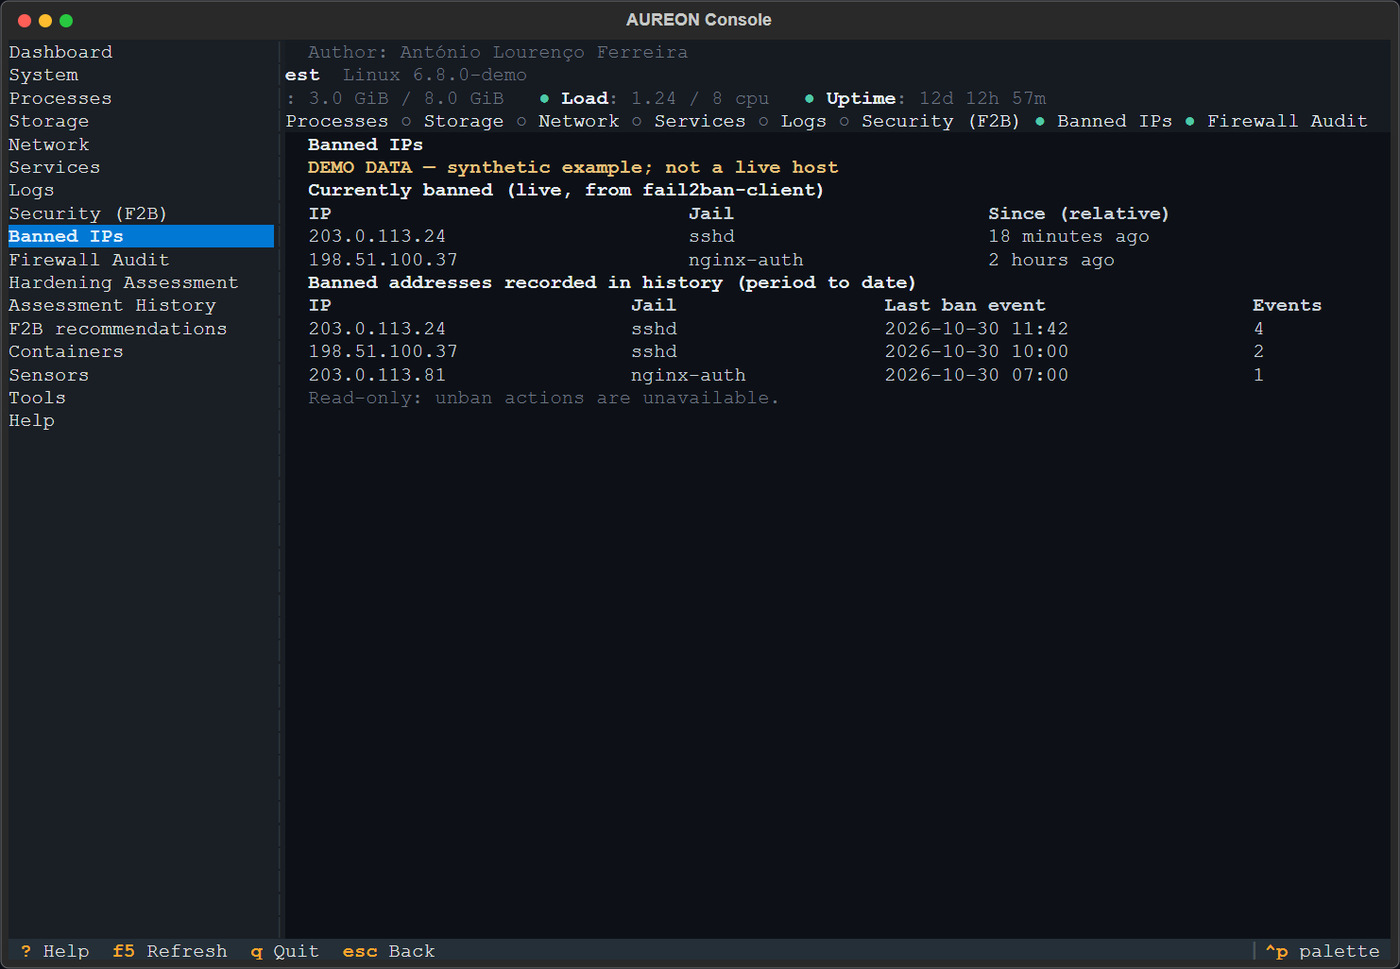
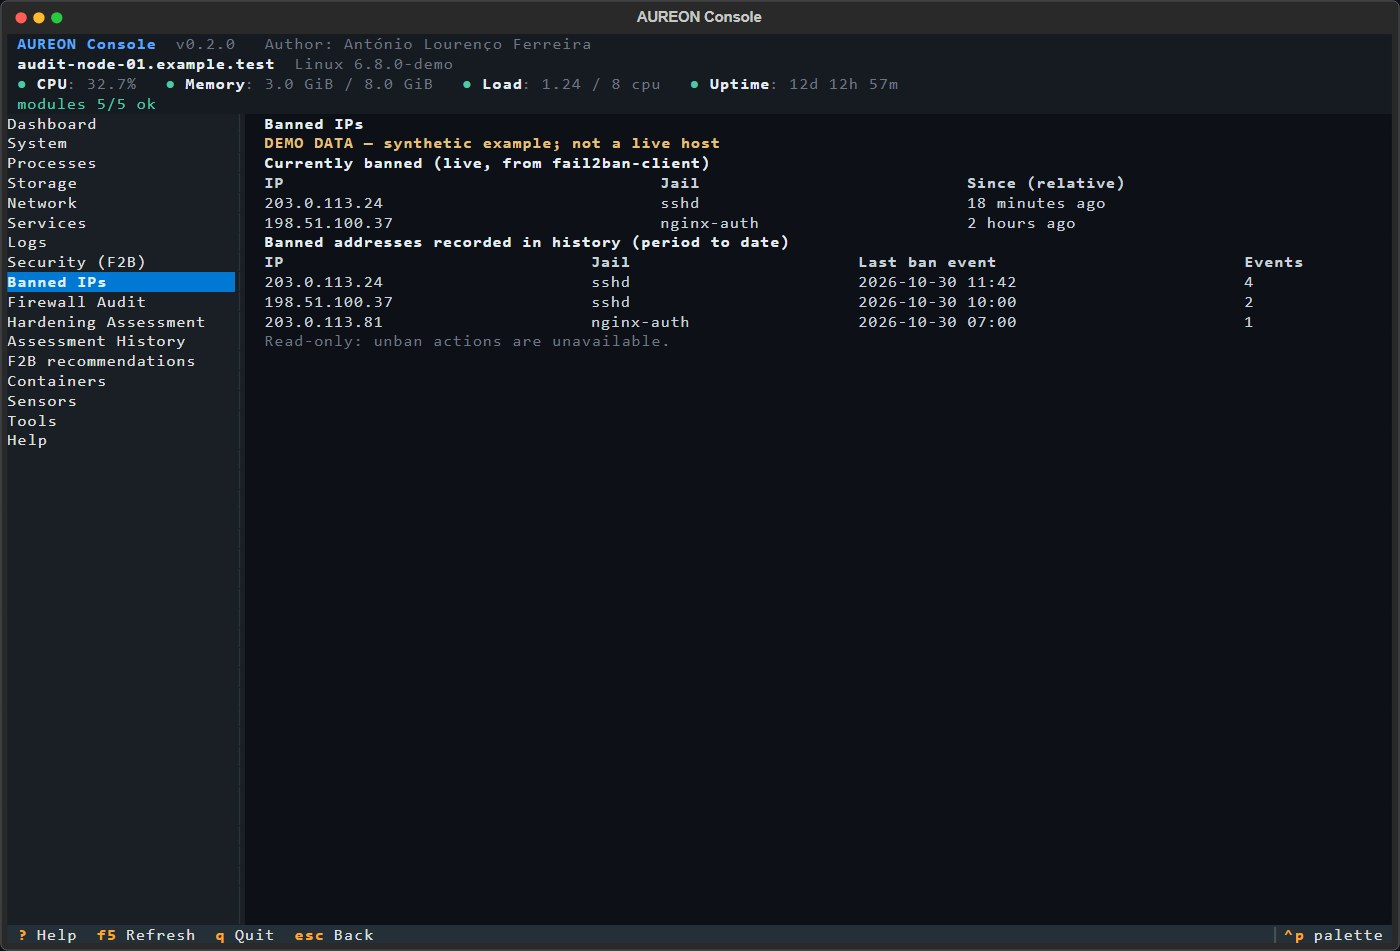
Fix TUI header overlap and prepare the public presentation.
The docked sidebar painted over the fixed-height header, and the header tried
to print every module label on one line, hiding host and health information.
Navigation and content now share a row below a compact header, header updates
happen only on the UI thread, and the TUI tests await their collection workers
instead of racing them. Documentation, installer defaults and screenshots are
aligned with an unprivileged public release.

🤖 Generated with Codebuff

Changed region(s): [[0.0, 0.0, 0.9829, 0.4879], [0.0, 0.9453, 1.0, 1.0], [0.8907, 0.2744, 0.9521, 0.3659]]

diff --git a/src/aureon/tui/app.py b/src/aureon/tui/app.py
@@ -75,29 +75,32 @@ class Header3(Static):
             health.append("   ")
         if not self.indicators:
             health.append("collecting...", style="#6e7681")
-        modules = Text()
-        for key, label in navigation(self.config.language):
-            state = self.module_states.get(key, "")
-            symbol = {
-                "ok": "\u25cf",
-                "warn": "\u25b2",
-                "error": "\u2716",
-                "unavailable": "\u2013",
-                "denied": "\u25b2",
-                "timeout": "\u25b2",
-                "error:": "\u2716",
-            }.get(state, "\u25cb")
-            style = {
-                "ok": "#4ec9a8",
-                "warn": "#e5c07b",
-                "error": "#e06c75",
-                "unavailable": "#6e7681",
-                "denied": "#e5c07b",
-                "timeout": "#e5c07b",
-            }.get(state, "#6e7681")
-            modules.append(f"{symbol} ", style=style)
-            modules.append(f"{label} ")
-        return Group(title, host, health, modules)
+        return Group(title, host, health, module_summary(
+            navigation(self.config.language), self.module_states
+        ))
+
+
+def module_summary(labels, states: Dict[str, str]) -> Text:
+    """One compact line: how many modules are healthy, and which need attention.
+
+    The header has a fixed four-line height, so it must not try to print every
+    module label: a long list used to wrap and push the host and health lines
+    out of view in narrow terminals and in documentation screenshots.
+    """
+    text = Text()
+    reported = [(key, label) for key, label in labels if key in states]
+    if not reported:
+        text.append("collecting module state...", style="#6e7681")
+        return text
+    healthy = sum(1 for key, _label in reported if states.get(key) == "ok")
+    text.append(f"modules {healthy}/{len(reported)} ok", style="#4ec9a8" if healthy == len(reported) else "#6e7681")
+    attention = [label for key, label in reported if states.get(key) != "ok"]
+    if attention:
+        shown = attention[:4]
+        suffix = "\u2026" if len(attention) > len(shown) else ""
+        text.append("   needs attention: ", style="#e5c07b")
+        text.append(", ".join(shown) + suffix, style="#e5c07b")
+    return text
 
 
 def indicators_line(items: List[Indicator]):
@@ -148,11 +151,14 @@ class AureonApp(App):
     def compose(self) -> ComposeResult:
         self.header = Header3(self.config, id="aureon-header")
         yield self.header
-        nav_items = [ListItem(Label(label), id=f"nav-{key}") for key, label in navigation(self.config.language)]
-        yield ListView(*nav_items, id="aureon-nav")
-        with Vertical(id="aureon-main"):
-            yield Static("", id="aureon-title")
-            yield VerticalScroll(Static("", id="aureon-content"), id="aureon-body")
+        # Header, navigation and content are siblings in flow order: docking the
+        # sidebar across the whole screen used to paint over the header text.
+        with Horizontal(id="aureon-layout"):
+            nav_items = [ListItem(Label(label), id=f"nav-{key}") for key, label in navigation(self.config.language)]
+            yield ListView(*nav_items, id="aureon-nav")
+            with Vertical(id="aureon-main"):
+                yield Static("", id="aureon-title")
+                yield VerticalScroll(Static("", id="aureon-content"), id="aureon-body")
         yield Static("starting...", id="aureon-status")
         yield Footer()
 
@@ -188,8 +194,6 @@ class AureonApp(App):
 
             result = SystemCollector(self.ctx).collect()
             states["system"] = result.availability
-            if result.available:
-                self.header.set_data(system_indicators(result.value), {**states, "dashboard": result.availability})
         except Exception:  # noqa: BLE001
             states["system"] = "error"
         for key in ("storage", "network", "services", "docker", "sensors"):

diff --git a/tests/test_tui.py b/tests/test_tui.py
@@ -32,7 +32,10 @@ async def test_every_navigation_panel_renders(config):
         await pilot.pause()
         for key, _label in NAV:
             app.current = key
-            app.run_worker(app._collect_and_render(), exclusive=True)
+            # Await the worker: firing one per panel and only pausing races the
+            # collection threads and can starve the message pump on slow hosts.
+            worker = app.run_worker(app._collect_and_render(), exclusive=True)
+            await worker.wait()
             await pilot.pause()
             assert app.query_one("#aureon-body").children, f"panel {key} produced no content"
 
@@ -64,7 +67,8 @@ async def test_refresh_only_ever_issues_read_only_commands(config, monkeypatch):
         await pilot.pause()
         for panel in ("dashboard", "storage", "network", "services", "logs", "security", "banned", "firewall", "assessment", "assessment-history", "wizard", "containers", "sensors", "tools"):
             app.current = panel
-            app.run_worker(app._collect_and_render(), exclusive=True)
+            worker = app.run_worker(app._collect_and_render(), exclusive=True)
+            await worker.wait()
             await pilot.pause()
 
     forbidden = {"start", "stop", "restart", "reload", "set", "unban", "ban", "kill", "pkill", "rm", "mv", "install"}
@@ -80,7 +84,8 @@ async def test_dashboard_survives_fail2ban_absence(config):
     async with app.run_test() as pilot:
         await pilot.pause()
         app.current = "security"
-        app.run_worker(app._collect_and_render(), exclusive=True)
+        worker = app.run_worker(app._collect_and_render(), exclusive=True)
+        await worker.wait()
         await pilot.pause()
         status = app.security.status
         assert status.installed in (True, False)
@@ -90,6 +95,25 @@ async def test_dashboard_survives_fail2ban_absence(config):
 # CI (not the developer's machine) caught widgets being composed into rich
 # renderables. These tests render every panel with *degraded* data so that the
 # empty-state paths are exercised too.
+def test_header_module_summary_stays_on_one_short_line():
+    """The fixed-height header must never wrap its module status line."""
+    from aureon.i18n import navigation
+    from aureon.tui.app import module_summary
+
+    labels = navigation("en")
+    states = {key: "ok" for key, _label in labels}
+    healthy = module_summary(labels, states).plain
+    assert healthy.startswith(f"modules {len(labels)}/{len(labels)} ok")
+    assert len(healthy) < 80
+
+    states[labels[0][0]] = "error"
+    degraded = module_summary(labels, states).plain
+    assert "needs attention" in degraded
+    assert labels[0][1] in degraded
+    assert len(degraded) < 120
+    assert "collecting" in module_summary(labels, {}).plain
+
+
 def test_empty_state_returns_a_renderable_not_a_widget():
     from rich.text import Text
 

diff --git a/scripts/capture_screenshots.py b/scripts/capture_screenshots.py
@@ -180,7 +180,7 @@ async def capture(output: Path) -> None:
         with patch("aureon.tui.app.socket.gethostname", return_value="audit-node-01.example.test"), \
              patch("aureon.tui.app.platform.system", return_value="Linux"), \
              patch("aureon.tui.app.platform.release", return_value="6.8.0-demo"):
-            async with app.run_test(size=(120, 40)) as pilot:
+            async with app.run_test(size=(140, 46)) as pilot:
                 await pilot.pause()
                 nav = app.query_one("#aureon-nav", ListView)
                 for panel in PANELS:

diff --git a/src/aureon/tui/widgets.py b/src/aureon/tui/widgets.py
@@ -35,11 +35,18 @@ Screen {
     background: #161b22;
     color: #e6edf3;
     padding: 0 1;
+    /* Keep identity, host and health readable at any width. */
+    text-align: left;
+    content-align: left top;
+}
+
+#aureon-layout {
+    height: 1fr;
 }
 
 #aureon-nav {
-    dock: left;
     width: 24;
+    height: 1fr;
     background: #10151c;
     border-right: solid #30363d;
 }

diff --git a/README.md b/README.md
@@ -55,24 +55,33 @@ distribution and installation. See [the detailed compatibility notes](docs/COMPA
 - Runtime dependencies: `textual`, `rich` (both MIT). No database server, no web
   server, no network port.
 
-## Install
+## Quick start
+
+Linux with Python 3.9+ is the only requirement. No root, no daemon, no open
+port, no database server.
 
 ```bash
-git clone <repository-url> aureon-console
+git clone https://github.com/antonioferreira2/aureon-console.git
 cd aureon-console
-
-./install.sh                 # per-user install into ~/.local
-sudo ./install.sh            # system-wide (root-owned venv, /var/lib/aureon)
+./install.sh
 
 export PATH="$HOME/.local/bin:$PATH"
-aureon
+aureon doctor    # check Python, collectors and Fail2ban availability
+aureon           # open the console
 ```
 
-Recommended for the security module:
+`install.sh` creates a private virtualenv in `~/.local/share/aureon/venv`,
+links `~/.local/bin/aureon` and installs no system packages. A system-wide
+install is optional:
 
 ```bash
-sudo aureon
+sudo ./install.sh            # root-owned venv under /usr/local, state in /var/lib/aureon
 ```
+
+Run the console as your normal user. `sudo aureon` is only needed for the live
+Fail2ban ban list, which reads the Fail2ban socket; everything else reports
+what it can read and labels unreadable sources as unavailable instead of
+guessing.
 
 Uninstall (the history database is **kept** unless you ask for it):
 
@@ -190,7 +199,6 @@ methodology: [`docs/DATA-ACCURACY.md`](docs/DATA-ACCURACY.md).
 | [HARDENING.zh_CN.md](docs/HARDENING.zh_CN.md) | 加固评估（简体中文） |
 | [HARDENING.ru.md](docs/HARDENING.ru.md) | Оценка защищённости (русский) |
 | [TROUBLESHOOTING.md](docs/TROUBLESHOOTING.md) | Common failures and fixes |
-| [VIDEO-REFERENCE.md](docs/VIDEO-REFERENCE.md) | Analysis of the reference video (not accessible) |
 | [RELEASE-CHECKLIST.md](docs/RELEASE-CHECKLIST.md) | What must be true before a release |
 | [CHANGELOG.md](CHANGELOG.md) | Release history |
 
@@ -200,7 +208,14 @@ Issues, bug reports and pull requests are welcome - read
 [CONTRIBUTING.md](CONTRIBUTING.md) and [CODE_OF_CONDUCT.md](CODE_OF_CONDUCT.md)
 first. Security issues: see [SECURITY.md](SECURITY.md).
 
-## Status
+## Status and support
 
-Pre-release (`0.2.0`). The repository remains **private**. No public
-release, announcement or mirror has been made.
+`0.2.0` is the current release and this repository is public. Tested and
+expected platforms are listed above and detailed in
+[COMPATIBILITY.md](docs/COMPATIBILITY.md); security reports follow
+[SECURITY.md](SECURITY.md).
+
+AUREON is a read-only visibility tool: it helps you see the state of a Linux
+server, but it is not a certification, a SIEM, an IDS or a substitute for a
+full security audit. Where evidence is missing it says so instead of assuming
+the host is safe.

diff --git a/docs/INSTALLATION.md b/docs/INSTALLATION.md
@@ -28,6 +28,8 @@ sudo ./install.sh               # system-wide: /usr/local/share/aureon/venv, /va
 
 Properties:
 
+- **No root required.** The per-user install is the default and keeps the
+  virtualenv, config and history under your own home directory.
 - **Idempotent.** Re-running without `--force` refuses and tells you what to do.
 - **No silent overwrite.** `--force` moves the previous installation aside
   instead of deleting it.
@@ -53,11 +55,13 @@ sudo ln -s /usr/local/share/aureon/venv/bin/aureon /usr/local/bin/aureon
 ## 5. Running
 
 ```bash
-aureon            # interactive console
-sudo aureon       # needed for: live Fail2ban bans, some systemd details, Docker socket
+aureon            # interactive console, unprivileged
+sudo aureon       # optional: live Fail2ban ban list, systemd/Docker details, root-only logs
 ```
 
-Root is **recommended for the security module**, not required to start.
+Run unprivileged by default (least privilege). Elevation only adds the live
+Fail2ban ban list and restricted host details; every module still reports what
+it can and cannot read, and never guesses a value it was denied.
 
 Over SSH:
 
@@ -72,12 +76,13 @@ truncated rather than broken. See
 ## 6. Updating
 
 ```bash
-sudo ./install.sh --force
+./install.sh --force            # per-user install
+sudo ./install.sh --force       # system-wide install
 ```
 
-The venv is replaced; the state directory (`/var/lib/aureon` or
-`~/.local/share/aureon`) is untouched, and the schema migrates automatically on
-the next run.
+The venv is replaced; the state directory (`/var/lib/aureon` for a system-wide
+install or `~/.local/share/aureon` otherwise) is untouched, and the schema
+migrates automatically on the next run.
 
 Recommended before an update on a live server:
 

diff --git a/docs/TROUBLESHOOTING.md b/docs/TROUBLESHOOTING.md
@@ -25,7 +25,7 @@ aureon f2b status
 | Symptom | Cause | Fix |
 |---|---|---|
 | "Fail2ban is not installed" | Package absent | Install it with your package manager (AUREON will not) |
-| "live ban list requires root" | socket permissions | Run `sudo aureon` |
+| "live ban list requires root" | Fail2ban socket permissions | Run `sudo aureon` only if you need the live list; every other module works unprivileged |
 | SSH jail reported as PROBLEM | disabled or not loaded | `aureon f2b status`, then `fail2ban-client status sshd` |
 | Jail running but zero events | wrong `logpath`/`backend` | Compare `jail.local` with `journalctl -u sshd -n 20` |
 | Statistics say "no data" | collection has not run | `aureon ingest`, then `aureon ingest --import-history` |
@@ -37,8 +37,8 @@ aureon f2b status
 | Symptom | Cause | Fix |
 |---|---|---|
 | Database not created | state dir not writable | `AUREON_STATE_DIR=$HOME/.local/share/aureon aureon db info` |
-| `permission denied` on logs | running as non-root | `sudo aureon`, or add the user to the relevant group |
-| Docker "access denied" | socket group | Add user to `docker` group or run as root (security trade-off) |
+| `permission denied` on logs | running as non-root | Prefer granting read access to a dedicated group; `sudo aureon` is the fallback |
+| Docker "access denied" | socket group | Add the user to `docker` (or rootless Podman) and review the security trade-off before running as root |
 
 ## Database
 

diff --git a/CHANGELOG.md b/CHANGELOG.md
@@ -2,6 +2,24 @@
 
 ## [Unreleased]
 
+### Fixed
+
+- The sidebar no longer overlaps the header: navigation and content now share a
+  row below the four-line header, so the product name, host and health lines are
+  readable at every width.
+- The header reports a compact module summary (`modules N/M ok`, plus the
+  modules needing attention) instead of trying to print every module label on a
+  fixed-height line.
+
+### Changed
+
+- README and installation guide now present the public quick start, install and
+  run unprivileged by default, and reserve `sudo` for the live Fail2ban list.
+- Documentation screenshots regenerated from the real Textual UI with synthetic
+  demo data at 1400x951.
+- Removed the internal video-analysis note that is not part of the public
+  documentation.
+
 ## [0.2.0] - 2026-10-29
 
 ### Added
@@ -62,6 +80,5 @@ First working version, prepared for private review.
 
 ### Notes
 
-- The reference video could not be accessed from the development environment;
-  see `docs/VIDEO-REFERENCE.md`.
-- No public release has been made.
+- The reference video could not be accessed from the development environment.
+- No public release had been made at the time of 0.1.0.

diff --git a/docs/SECURITY.md b/docs/SECURITY.md
@@ -70,7 +70,7 @@ CLI arguments cannot enable writes and are documented as deprecated.
 
 | Risk | Why it remains | Mitigation |
 |---|---|---|
-| Running as root | Needed for the live ban list and systemd/Docker details | Run unprivileged unless the security module is needed; AUREON reports what it cannot read |
+| Running as root | Optional elevation adds the live ban list and systemd/Docker details | The installer and the documented default are unprivileged; AUREON reports what it cannot read instead of guessing |
 | Local file tampering of the venv | Anything the user can write, the user can run | Install into a root-owned prefix; verify the install path permissions |
 | Log content can contain personal data | Inherent to `/var/log` | Redaction by default; retention limit; documented deletion |
 | Integrity of read data | AUREON trusts `/proc`, `journalctl` and the config files | A root attacker can already do anything; AUREON is not a trust anchor |

diff --git a/docs/RELEASE-CHECKLIST.md b/docs/RELEASE-CHECKLIST.md
@@ -36,7 +36,9 @@ Nothing is published without an explicit approval from António Lourenço Ferrei
 
 ## 5. Repository and publication
 
-- [ ] no real host data, IPs of clients, logs or credentials in history
-- [ ] `git log` reviewed before the first push
-- [ ] private repository created first
+- [ ] no real host data, client IPs, logs or credentials in the current tree or in history
+- [ ] the full history reviewed before any visibility change (history is public too)
+- [ ] screenshots are generated from the real UI with synthetic demo data only
+- [ ] secret scanning and push protection enabled on the repository
 - [ ] **explicit written approval from the author before any public release**
+- [ ] after publishing: README renders, images load, and CI is green on the published commit

diff --git a/SECURITY.md b/SECURITY.md
@@ -23,8 +23,12 @@ The full threat model, the implemented controls and the residual risks are in
 
 | Version | Supported |
 |---|---|
-| 0.1.x | Yes |
-| < 0.1 | No |
+| 0.2.x | Yes |
+| < 0.2 | No |
+
+AUREON is a read-only local console: it has no network service, no accounts and
+no stored credentials, so the reporting scope is the collector and parsing
+boundary described in [`docs/SECURITY.md`](docs/SECURITY.md).
 
 ## Disclosure
 
